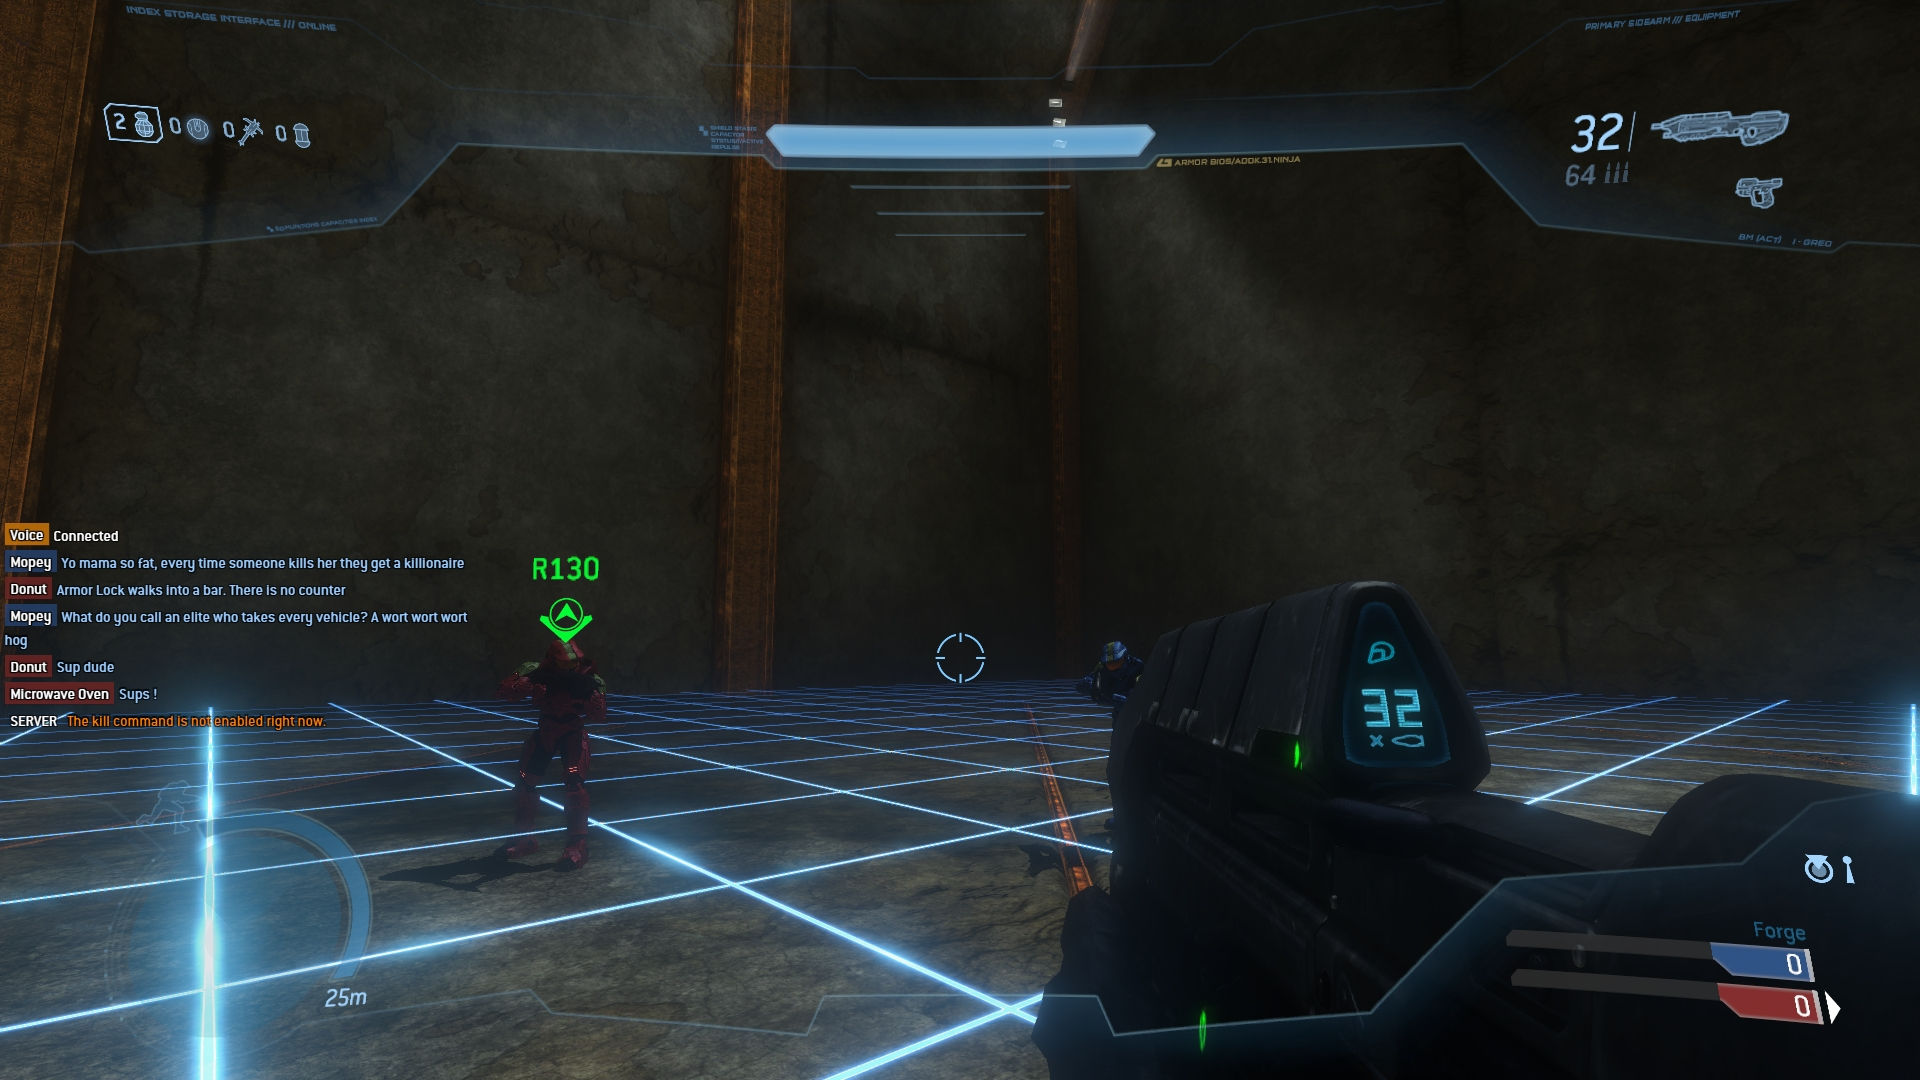
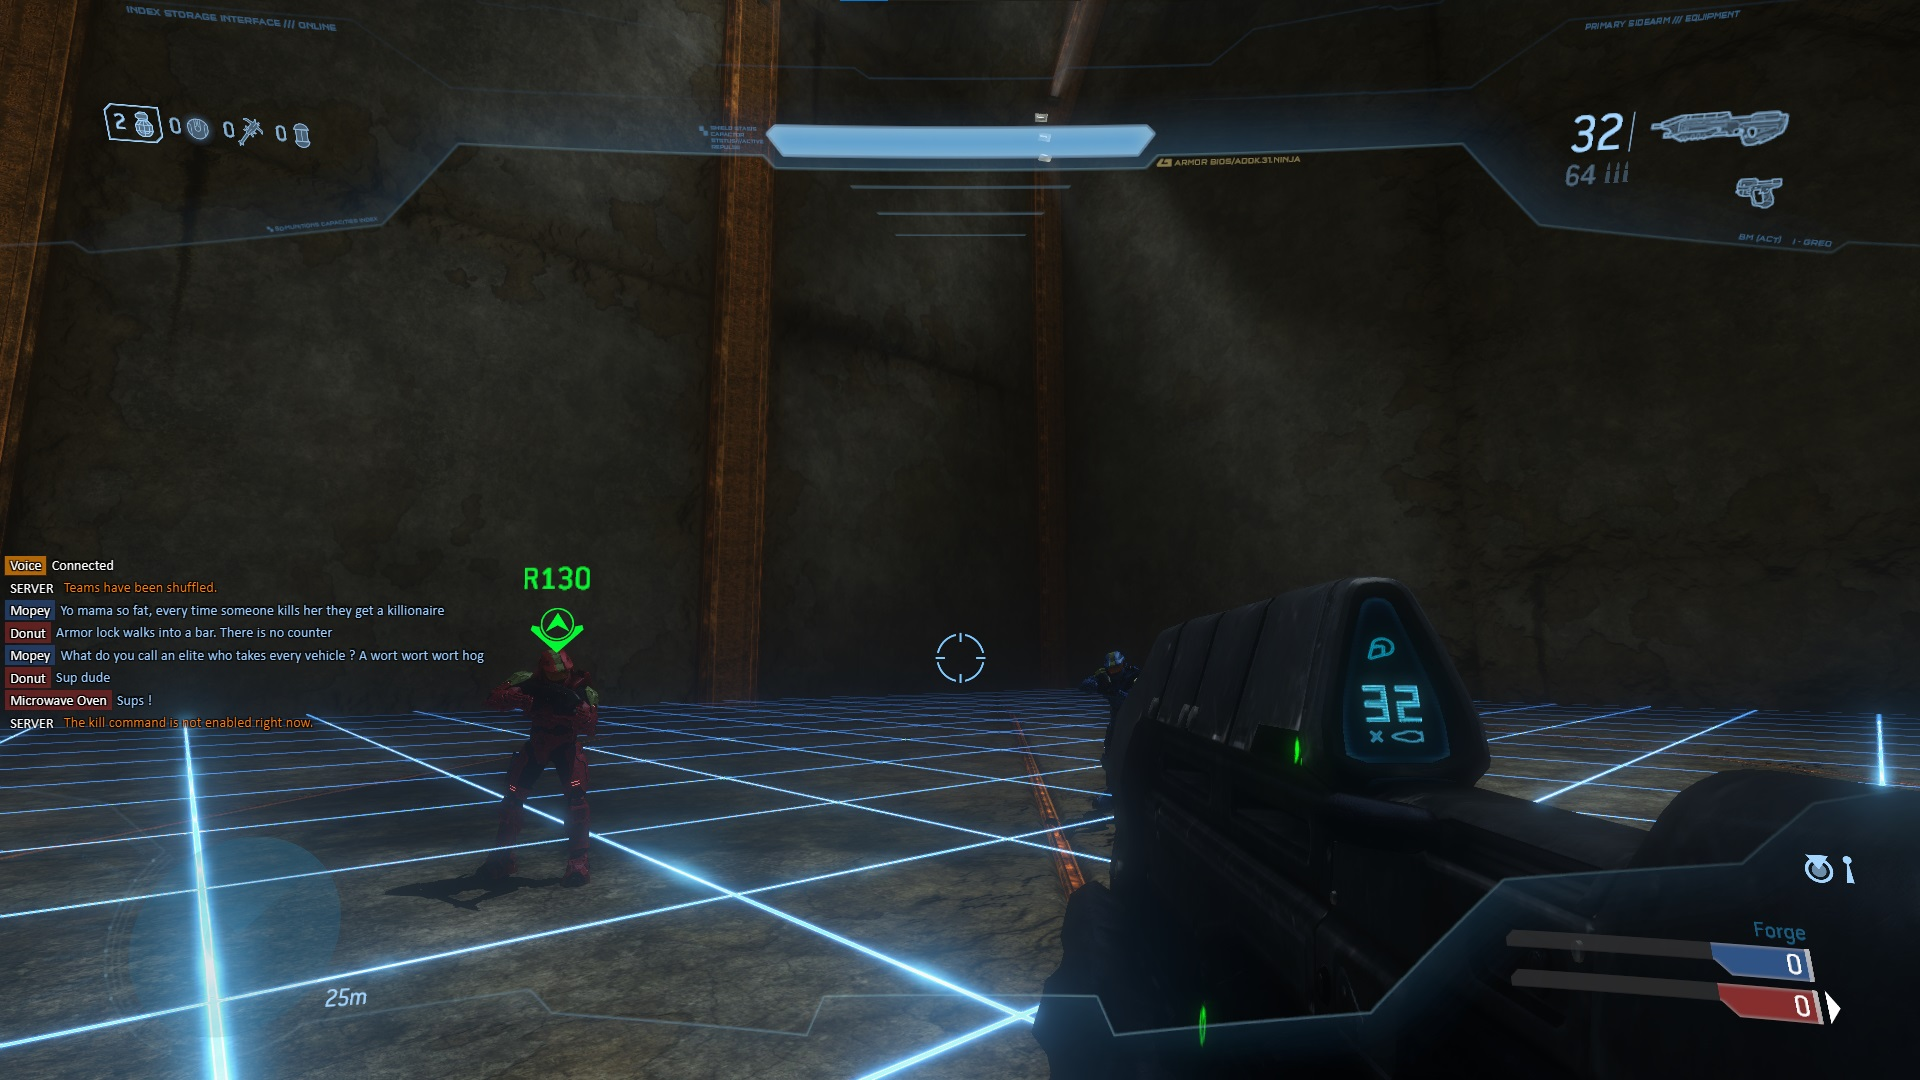
Sleeker chat

diff --git a/better_chat/chat/chat.css b/better_chat/chat/chat.css
@@ -1,14 +1,16 @@
 @font-face{font-family:"Conduit ITC";src:url(dew://lib/Conduit-ITC.woff);}
+
 body {
     margin: 0;
-    font-family: "Conduit ITC", sans-serif;
     overflow: hidden;
 }
 
 #chat {
     position: absolute;
-    font-size: 14px;
-    line-height: 21px;
+    
+    font-size: 12px;
+    line-height: 17px;
+    
     letter-spacing: 0.3px;
     color: white;
     overflow: hidden;
@@ -51,8 +53,10 @@ body {
 }
 
 #chatWindow p{
-    margin: 0;
+    margin: 1px 0 0 0;
+    
     padding-top: 2px;
+	font-family: "Calibri";
 }
 
 #chatWindow > p:first-child {
@@ -95,6 +99,7 @@ body {
     color: white; 
     margin-right: 4px;
     height: 14px;
+    white-space: nowrap;
 }
 
 .GLOBAL, .TEAM, a {
@@ -114,7 +119,7 @@ a:hover{
 }
 
 .SERVER{
-    color: #FFFF00;
+    color: #FF9000;
 }
 
 .WHISPER{
@@ -147,7 +152,7 @@ a:hover{
 }
 
 #chatWindow::-webkit-scrollbar {
-    width: 20px;
+    width: 5px;
 }
 
 #chatWindow::-webkit-scrollbar-thumb {
